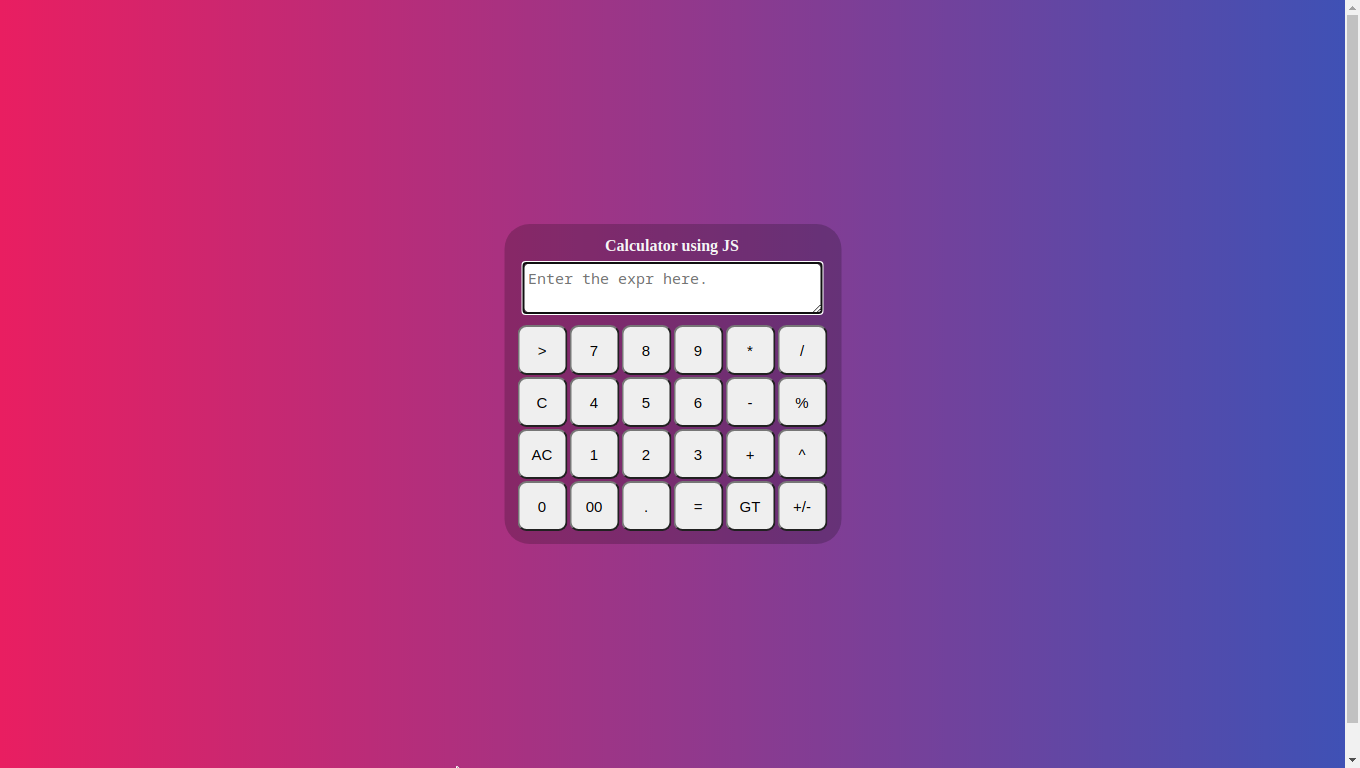
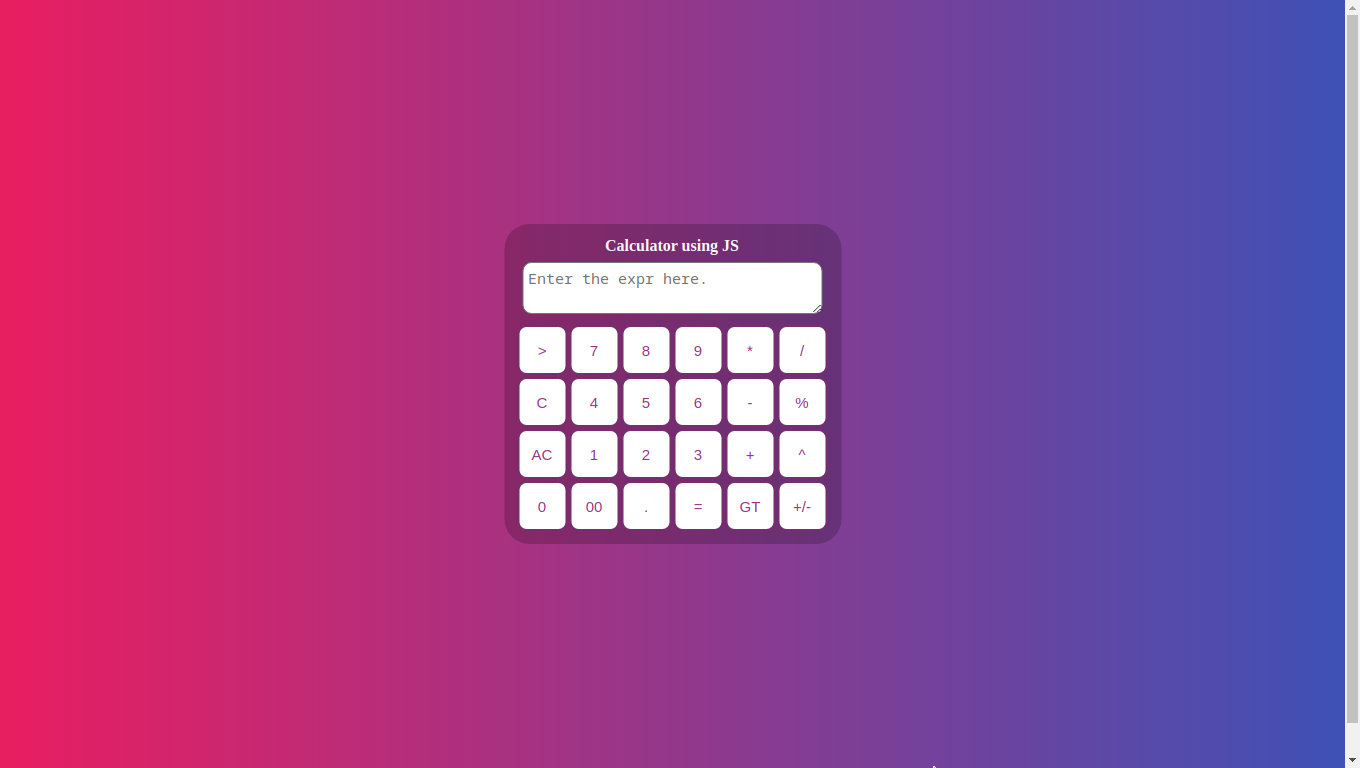
commit 29 th july night

Changed region(s): [[0.3706, 0.4062, 0.6176, 0.6875], [0.4015, 0.3125, 0.5868, 0.3438]]

diff --git a/calculator/calculator.html b/calculator/calculator.html
@@ -23,36 +23,36 @@
         </TD>
     </TR>
     <TR>
-        <TD><button class="success" onclick="clear1();">></button></TD>
-        <TD><button onclick="textArea('7');" class="success">7</button></TD>
-        <TD><button onclick="textArea('8');" class="success">8</button></TD>
-        <TD><button onclick="textArea('9');" class="success">9</button></TD>
-        <TD><button onclick="textArea('*');" class="success">*</button></TD>
-        <TD><button onclick="textArea('/');" class="success">/</button></TD>
+        <TD><button  onclick="clear1();">></button></TD>
+        <TD><button onclick="textArea('7');">7</button></TD>
+        <TD><button onclick="textArea('8');" >8</button></TD>
+        <TD><button onclick="textArea('9');" >9</button></TD>
+        <TD><button onclick="textArea('*');" >*</button></TD>
+        <TD><button onclick="textArea('/');" >/</button></TD>
     </TR>
     <TR>
-        <TD><button onclick="allClear();" class="success">C</button></TD>
-        <TD><button onclick="textArea('4');" class="success">4</button></TD>
-        <TD><button onclick="textArea('5');" class="success">5</button></TD>
-        <TD><button onclick="textArea('6');" class="success">6</button></TD>
-        <TD><button onclick="textArea('-');" class="success">-</button></TD>
-        <TD><button onclick="textArea('%');" class="success">%</button></TD>
+        <TD><button onclick="allClear();" >C</button></TD>
+        <TD><button onclick="textArea('4');" >4</button></TD>
+        <TD><button onclick="textArea('5');" >5</button></TD>
+        <TD><button onclick="textArea('6');" >6</button></TD>
+        <TD><button onclick="textArea('-');" >-</button></TD>
+        <TD><button onclick="textArea('%');" >%</button></TD>
     </TR>
     <TR>
-        <TD><button onclick="allClear();" class="success">AC</button></TD>
-        <TD><button onclick="textArea('1');" class="success">1</button></TD>
-        <TD><button onclick="textArea('2');" class="success">2</button></TD>
-        <TD><button onclick="textArea('3');" class="success">3</button></TD>
-        <TD><button onclick="textArea('+');" class="success">+</button></TD>
-        <TD><button onclick="textArea('^');" class="success">^</button></TD>
+        <TD><button onclick="allClear();" >AC</button></TD>
+        <TD><button onclick="textArea('1');" >1</button></TD>
+        <TD><button onclick="textArea('2');" >2</button></TD>
+        <TD><button onclick="textArea('3');" >3</button></TD>
+        <TD><button onclick="textArea('+');" >+</button></TD>
+        <TD><button onclick="textArea('^');" >^</button></TD>
     </TR>
     <TR>
-        <TD><button onclick="textArea('0');" class="success">0</button></TD>
-        <TD><button onclick="textArea('00');" class="success">00</button></TD>
-        <TD><button onclick="textArea('.');" class="success">.</button></TD>
-        <TD><button onclick="compute();" class="success">=</button></TD>
-        <TD><button onclick="compute();" class="success">GT</button></TD>
-        <TD><button onclick="textArea('-');" class="success">+/-</button></TD>
+        <TD><button onclick="textArea('0');" >0</button></TD>
+        <TD><button onclick="textArea('00');" >00</button></TD>
+        <TD><button onclick="textArea('.');" >.</button></TD>
+        <TD><button onclick="compute();" >=</button></TD>
+        <TD><button onclick="compute();" >GT</button></TD>
+        <TD><button onclick="textArea('-');" >+/-</button></TD>
     </TR>
 </TABLE>
 </div>

diff --git a/calculator/style.css b/calculator/style.css
@@ -11,9 +11,12 @@ button{
     width: 50px;
     height: 50px;
     font-size: 15px;
-    margin: 2;  
     cursor: pointer;
     border-radius: 9px;
+    border: 2px solid black;
+    background-color: white;
+    border-color: #772d6f;
+    color: #973689;
 }
 textarea{
     margin: 5px;
@@ -35,4 +38,8 @@ textarea{
 .back{
     background-image: linear-gradient(to right, #e91e61, #3f51b5);
     height: 800px;
-}
+} 
+button:hover {
+    background-color: #4CAF50;
+    color: white;
+  }
